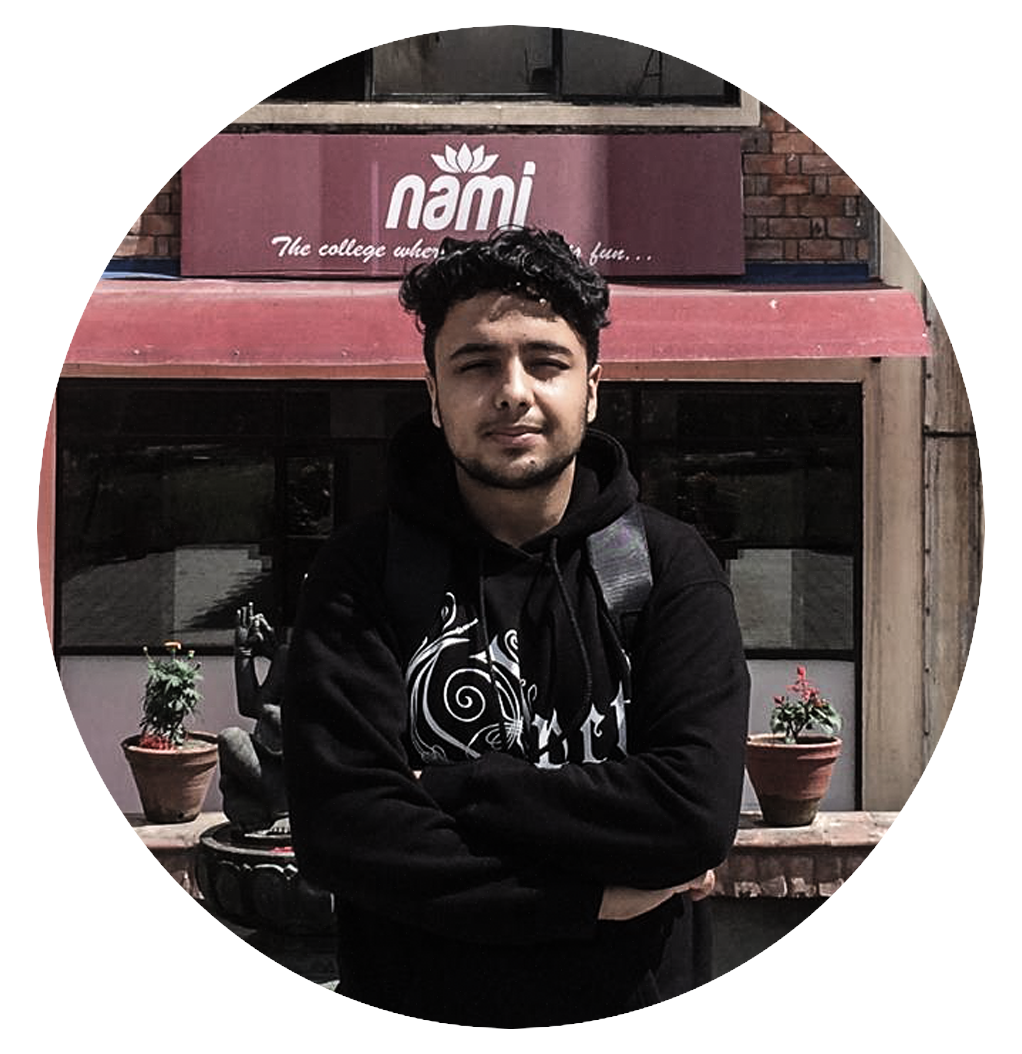
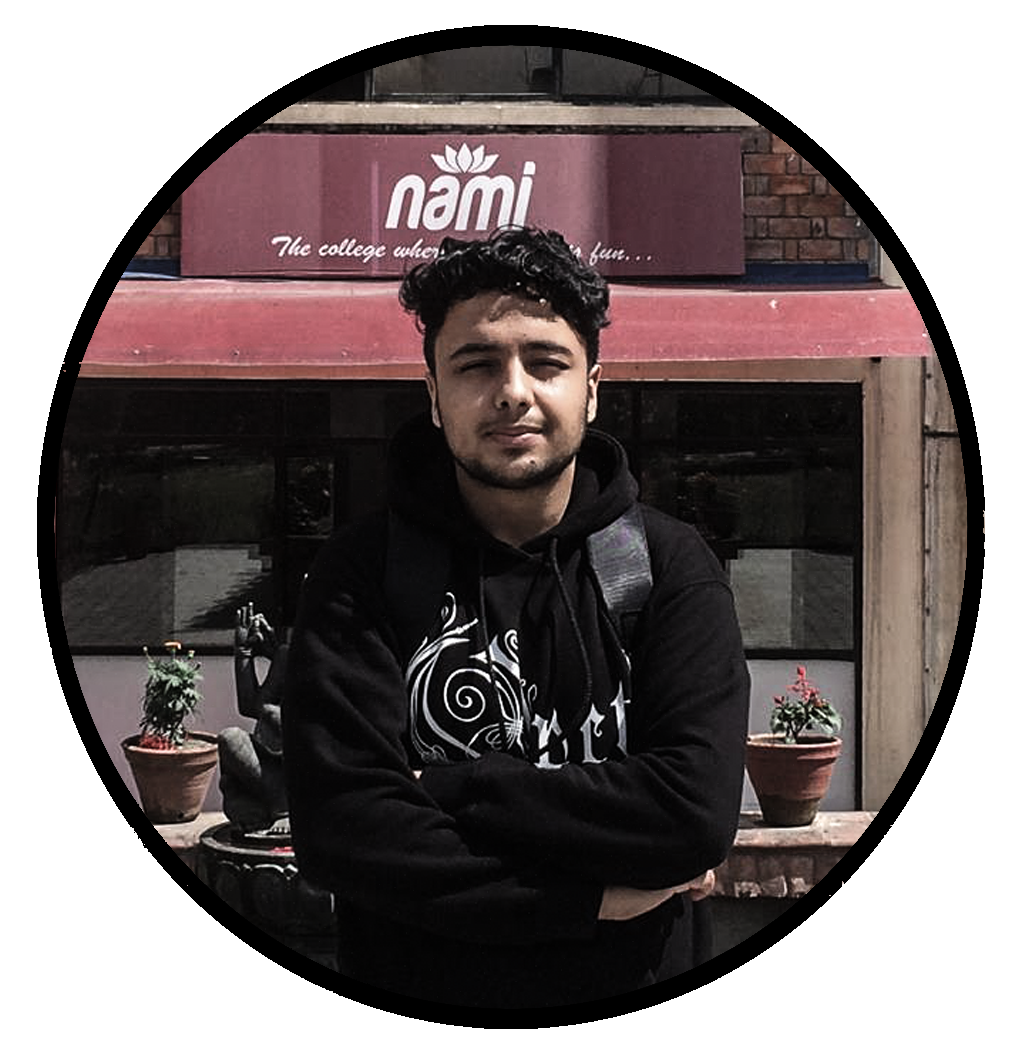
Made many changes in the homepage and added 3 blank pages

diff --git a/css/index.css b/css/index.css
@@ -5,33 +5,38 @@ header{
   display: flex;
   flex-direction: row;
   justify-content: space-between;
-  background-color: white;
+  background-color: #161515;
   position:fixed;
   width: 100%;
+  box-shadow: 1px 5px 14px black, 1px 5px 14px black;
+
 
 }
 
 .name a{
   text-decoration: none;
-  color:black;
+  color:white;
+  transition: all 0.7s ease;
 }
 .name{
-  background:white;
+  background:#161515;
   font-family: 'Rancho', cursive;
-  font-size: 42px;
+  font-size: 2.5em;
+
 }
 .name:hover{
-  background: white;
+  color: #161515;
 }
 .name:hover a{
-  color: white;
-  text-shadow: 10px 4px 30px black,  10px 14px 30px black;
+
+  text-shadow: 5px 2px 5px #920000,  5px 5px 5px #920000;
 
 }
 .navbar{
-  padding: 2% 0% 0% 0%;
-  background:white;
+  padding:0%;
   width: 100%;
+  height: auto;
+
 }
 
 .navbar ul{
@@ -39,40 +44,58 @@ header{
   flex-direction: row;
   justify-content:space-around;
   margin: 0;
-  font-size: 20px;
+  padding: 0;
+  font-size: 0.625em;
   color: black;
   font-weight: bold;
+  overflow: hidden;
+
+
 }
 
 .navbar ul li{
 
    list-style: none;
+   height:100px; !important
+   width:100px;  !important
+
+
 }
 
 .navbar ul li a{
-  color: black;
+  color: white;
   text-decoration: none;
   font-weight: bold;
   font-family: 'Rancho';
-  font-size: 50px;
-}
-.navbar ul li:hover{
-  background:white;
-  border-radius: 30px;
+  font-size: 10.875em;
+  padding: 12px 0;
+  transition: all 0.38s ease;
+  padding: 0px 10px;
 
 }
-.navbar ul li:hover a{
-  color: white;
-  text-shadow: 10px 4px 30px black,  10px 14px 30px black;
+
+.navbar li a.navact {
+    background-color: #920000;
+    color: white;
+    opacity: 0.9;
+    border: 100%;
 }
+
+.navbar li a:hover:not(.navact) {
+    background-color: #920000;
+}
+
 /**The styling of the header portion of the page ends here**/
 
 /**The body of the web page is styled below**/
 body{
   margin:0;
-  background-color: #e7f98c;
+  background-image: url("../images/web.jpg");
+  height: auto;
+  display: block;
 
 }
+
 
 .social{
   display: flex;
@@ -87,6 +110,7 @@ body{
   display: flex;
   flex-direction: row;
   justify-content: flex-start;
+  height: auto;
 
 }
 .caption{
@@ -98,7 +122,7 @@ body{
 }
 .hello{
 
-  font-size: 150px;
+  font-size: 9.375em;
   font-weight: bold;
   color: white;
   text-shadow: 3px 3px 10px black;
@@ -107,7 +131,7 @@ body{
 }
 .welcome{
   font-family: 'Caveat';
-  font-size: 60px;
+  font-size: 3.75em;
   font-weight: bold;
   color: white;
   text-shadow: 3px 3px 10px black;
@@ -118,7 +142,7 @@ body{
     background-color: #393a56;
     display:block;
     font-family: 'Rancho';
-    font-size: 40px;
+    font-size: 2.5em;
     margin: 20px;
     text-align: center;
     color: white;
@@ -130,12 +154,13 @@ body{
     flex-direction: row;
     justify-content: space-between;
 
+
   }
 .contact{
   background-color: #639a56;
   display:block;
   font-family: 'Rancho';
-  font-size: 40px;
+  font-size: 2.5em;
   margin: 20px;
   text-align: center;
   color: white;
@@ -145,7 +170,7 @@ body{
 }
 .photo{
     padding: 2% 6% 0% 6%;
-
+    border-radius: 50%;
     max-width: 360px;
     max-height: 360px;
     min-width: 350px;
@@ -154,14 +179,13 @@ body{
 }
 
 /**The footer of the page is styled below**/
-footer{
-  position: fixed;
-  /**display: flex;
-  flex-direction: row;
-  justify-content: space-between;**/
-  width: 100%;
-  padding: 5% 0 0 0;
-  margin: 0;
+footer {
+  position: inherit;
+  right: 0;
+  bottom: 0;
+  left: 0;
+  padding: 1rem;
+  text-align: center;
 }
 footer ul li{
   list-style: none;
@@ -170,10 +194,11 @@ footer ul li a{
   text-decoration: none;
   display: flex;
   flex-direction: row;
+
 }
 .find{
   font-family: 'Caveat';
-  font-size: 30px;
+  font-size: 1.875em;
   background-color: pink;
 
 }
@@ -182,21 +207,17 @@ footer ul li a{
 }
 
 /**This portion deals with making the web page responsive to different media screen sizes**/
-@media (max-width: 865px){
-	header{
-    display: flex;
-    flex-direction: column;
-    justify-content: flex-start;
-	}
-  .name{
-    font-size: 30px;
-  }
-  .navbar ul li a{
-    font-size:25px;
+@media (max-width:1080px) and (min-width:1001px){
+  .photo{
+    height:600px;
+    width:800px;
+    padding: 0S% 2% 6% 2%;
+
   }
 
 }
-@media (max-width: 1300px) and (min-width:800px){
+
+@media (max-width: 1000px) and (min-width:660px){
   /**.main{
   display: flex;
   flex-direction: column;
@@ -206,6 +227,16 @@ footer ul li a{
     height:600px;
     width:800px;
     padding: 6% 2% 6% 2%;
+    margin-top: 4%;
   }
 
+}
+@media (max-width: 659px) and (min-width:200px)
+@media (max-width: 400px) and (min-width:200px){
+  .photo{
+    max-height:200px;
+    max-width:200px;
+    padding: 6% 2% 6% 2%;
+    margin-top: 4%;
+  }
 }

diff --git a/contact.html b/contact.html
@@ -22,34 +22,15 @@
     </div>
       <div class="navbar"><!--A div with a class "navbar" has been created to add a navigation bar in the web page-->
         <ul><!--The items in the navigation bar have been listed using the unorderd list tag-->
-          <li><a class="navact" href="index.html"><img src="images/home.png" ></a></li>
+          <li><a href="index.html"><img src="images/home.png"></a></li>
           <li><a href="cv.html"><img src="images/cv.png"></a></li>
           <li><a href="bio.html"><img src="images/bio.png"></a></li>
-          <li><a href="contact.html"><img src="images/contact.png"></a></li>
+          <li><a class="navact" href="contact.html"><img src="images/contact.png"></a></li>
         </ul>
       </div>
     </header> <!--The header part ends here-->
 
-      <div class="main">
-        <div class="photo"><!--A class "photo" has been created for adding my image in the page-->
-        <img class="photo" src="images/me.png"><!--This is the link for my image-->
-        </div>
-        <div class="caption"><!--This class "caption" is for a small message to be displayed alongside my picture-->
-          <div class="hello">
-          Hi!
-          </div>
-          <div class="welcome">
-          Welcome to my page!
-          </div>
-          <div class="info">
-            <div class="more">Want to find out more about me?<br>Check out my biography.
-            </div>
-            <div class="contact">
-              Wish to see my qualifications?<br>View my CV.
-            </div>
-          </div>
-        </div>
-    </div>
+    
     <footer><!--This is the footer of the page-->
       <!--<div class="find">
         Find me on these sites!

diff --git a/bio.html b/bio.html
@@ -22,34 +22,15 @@
     </div>
       <div class="navbar"><!--A div with a class "navbar" has been created to add a navigation bar in the web page-->
         <ul><!--The items in the navigation bar have been listed using the unorderd list tag-->
-          <li><a class="navact" href="index.html"><img src="images/home.png" ></a></li>
+          <li><a href="index.html"><img src="images/home.png"></a></li>
           <li><a href="cv.html"><img src="images/cv.png"></a></li>
-          <li><a href="bio.html"><img src="images/bio.png"></a></li>
+          <li><a class="navact" href="bio.html"><img src="images/bio.png"></a></li>
           <li><a href="contact.html"><img src="images/contact.png"></a></li>
         </ul>
       </div>
     </header> <!--The header part ends here-->
 
-      <div class="main">
-        <div class="photo"><!--A class "photo" has been created for adding my image in the page-->
-        <img class="photo" src="images/me.png"><!--This is the link for my image-->
-        </div>
-        <div class="caption"><!--This class "caption" is for a small message to be displayed alongside my picture-->
-          <div class="hello">
-          Hi!
-          </div>
-          <div class="welcome">
-          Welcome to my page!
-          </div>
-          <div class="info">
-            <div class="more">Want to find out more about me?<br>Check out my biography.
-            </div>
-            <div class="contact">
-              Wish to see my qualifications?<br>View my CV.
-            </div>
-          </div>
-        </div>
-    </div>
+      
     <footer><!--This is the footer of the page-->
       <!--<div class="find">
         Find me on these sites!

diff --git a/cv.html b/cv.html
@@ -22,34 +22,15 @@
     </div>
       <div class="navbar"><!--A div with a class "navbar" has been created to add a navigation bar in the web page-->
         <ul><!--The items in the navigation bar have been listed using the unorderd list tag-->
-          <li><a class="navact" href="index.html"><img src="images/home.png" ></a></li>
-          <li><a href="cv.html"><img src="images/cv.png"></a></li>
+          <li><a href="index.html"><img src="images/home.png"></a></li>
+          <li><a class="navact" href="cv.html"><img src="images/cv.png"></a></li>
           <li><a href="bio.html"><img src="images/bio.png"></a></li>
           <li><a href="contact.html"><img src="images/contact.png"></a></li>
         </ul>
       </div>
     </header> <!--The header part ends here-->
 
-      <div class="main">
-        <div class="photo"><!--A class "photo" has been created for adding my image in the page-->
-        <img class="photo" src="images/me.png"><!--This is the link for my image-->
-        </div>
-        <div class="caption"><!--This class "caption" is for a small message to be displayed alongside my picture-->
-          <div class="hello">
-          Hi!
-          </div>
-          <div class="welcome">
-          Welcome to my page!
-          </div>
-          <div class="info">
-            <div class="more">Want to find out more about me?<br>Check out my biography.
-            </div>
-            <div class="contact">
-              Wish to see my qualifications?<br>View my CV.
-            </div>
-          </div>
-        </div>
-    </div>
+    
     <footer><!--This is the footer of the page-->
       <!--<div class="find">
         Find me on these sites!
